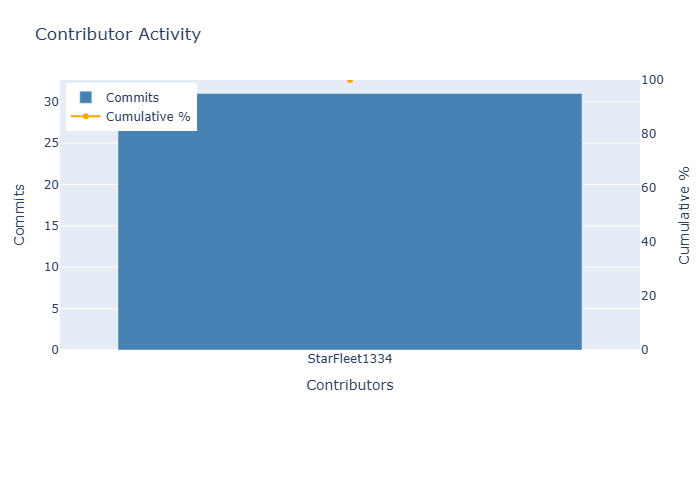
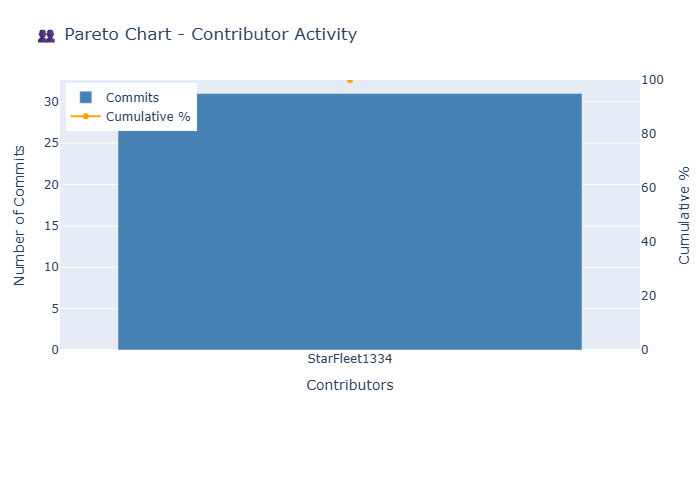
Remove large videos; will track via LFS/external storage

Changed region(s): [[0.03, 0.06, 0.51, 0.09], [0.0, 0.3, 0.03, 0.57]]

diff --git a/client.py b/client.py
@@ -54,8 +54,7 @@ class GitHubRepoClientFacade:
             contributor_pareto, label="Contributor",
             title="📌 Pareto Analysis for Contributors (80%)"
         )
-
-        # Visualization (Interactive Pareto Chart)
+        # Visualization (For Generating Pareto Chart)
         ParetoChartVisualizer.save_pareto_chart_image(
             data=filename_counts,
             title="📊 Pareto Chart - File Changes",
@@ -70,6 +69,20 @@ class GitHubRepoClientFacade:
             xlabel="Contributors",
             ylabel="Number of Commits",
             filename="contributor_activity_pareto.png"
+        )
+
+        ParetoChartVisualizer.show_interactive_pareto_chart(
+            data=filename_counts,
+            title="📊 Pareto Chart - File Changes",
+            xlabel="Files",
+            ylabel="Number of Commits"
+        )
+
+        ParetoChartVisualizer.show_interactive_pareto_chart(
+            data=author_counts,
+            title="👥 Pareto Chart - Contributor Activity",
+            xlabel="Contributors",
+            ylabel="Number of Commits"
         )
 
 def main():

diff --git a/reports/pareto_summary.md b/reports/pareto_summary.md
@@ -1,0 +1,44 @@
+# 📌 Pareto Analysis Report
+
+## Files
+
+- **back-service/src/main/java/com/example/backservice/BackServiceApplication.java**: 20 commits (8.33%)
+- **front-service/index.html**: 14 commits (14.17%)
+- **front-service/js/script.js**: 13 commits (19.58%)
+- **front-service/styles.css**: 13 commits (25.00%)
+- **front-service/js/quizManager.js**: 10 commits (29.17%)
+- **back-service/src/main/java/com/example/backservice/service/DataService.java**: 9 commits (32.92%)
+- **back-service/src/main/java/com/example/backservice/contoller/DataController.java**: 7 commits (35.83%)
+- **front-service/manifest.json**: 6 commits (38.33%)
+- **README.md**: 5 commits (40.42%)
+- **life-service/app/config/settings.py**: 5 commits (42.50%)
+- **life-service/app/services/text_service.py**: 5 commits (44.58%)
+- **front-service/js/categoryManager.js**: 5 commits (46.67%)
+- **front-service/js/uiManager.js**: 5 commits (48.75%)
+- **back-service/build.gradle**: 5 commits (50.83%)
+- **front-service/js/settings.js**: 5 commits (52.92%)
+- **life-service/api.py**: 5 commits (55.00%)
+- **front-service/script.js**: 5 commits (57.08%)
+- **back-service/src/main/java/com/example/backservice/contoller/CategoryController.java**: 4 commits (58.75%)
+- **back-service/src/main/java/com/example/backservice/entity/request/ContentRequest.java**: 4 commits (60.42%)
+- **front-service/js/apiService.js**: 4 commits (62.08%)
+- **life-service/app/api/routes/questions.py**: 4 commits (63.75%)
+- **back-service/src/main/java/com/example/backservice/contoller/QuestionController.java**: 4 commits (65.42%)
+- **back-service/src/main/resources/application.properties**: 4 commits (67.08%)
+- **.gitignore**: 3 commits (68.33%)
+- **life-service/app/models/request_models.py**: 3 commits (69.58%)
+- **back-service/src/main/java/com/example/backservice/skeleton/CategoryControllerInterface.java**: 3 commits (70.83%)
+- **back-service/src/main/java/com/example/backservice/skeleton/DataControllerInterface.java**: 3 commits (72.08%)
+- **back-service/src/main/java/com/example/backservice/skeleton/QuestionControllerInterface.java**: 3 commits (73.33%)
+- **back-service/.gitignore**: 3 commits (74.58%)
+- **life-service/app/api/routes/categories.py**: 2 commits (75.42%)
+- **front-service/js/translations.js**: 2 commits (76.25%)
+- **front-service/js/settingsViewController.js**: 2 commits (77.08%)
+- **front-service/js/timer.js**: 2 commits (77.92%)
+- **back-service/src/main/java/com/example/backservice/entity/respose/QuestionResponse.java**: 2 commits (78.75%)
+- **life-service/app/main.py**: 2 commits (79.58%)
+- **life-service/app/services/question_service.py**: 2 commits (80.42%)
+
+## Contributors
+
+- **StarFleet1334**: 31 commits (100.00%)

diff --git a/README.md b/README.md
@@ -45,19 +45,6 @@ Understanding these critical files and key contributors helps prioritize resourc
 
 ### 📥 Installation
 
-Clone the repository:
-
-```bash
-git clone https://github.com/yourusername/github-pareto-optimizer.git
-cd github-pareto-optimizer
-```
-
-Install dependencies:
-
-```bash
-pip install -r requirements.txt.txt
-```
-
 ### ⚙ Configuration
 
 Create or update the configuration file (`config.py`):
@@ -71,15 +58,61 @@ GITHUB_TOKEN = 'your-personal-access-token'
 ```
 *  Additionally in "paretoChartVisaulizer.py" on line 7 you can set top_n as you prefer to visualize more in graph 
 
-### 🚀 Running the Optimizer
+## 🚀 Quick Start
 
-Execute the main script:
+### 1 · Clone the repository
+
+```bash
+git clone https://github.com/yourusername/RepositoryAnalyzer.git
+cd RepositoryAnalyzer.git
+```
+
+### 2 · Install dependencies
+
+```bash
+# (Optional) create an isolated environment
+python -m venv .venv
+source .venv/bin/activate      # Windows: .venv\Scripts\activate
+
+# Install Python packages
+pip install -r requirements.txt
+```
+
+### 3 · Run the back‑end client (You can run with this—Here you get an interactive plotted graph)
 
 ```bash
 python client.py
-
-you can also run - uvicorn app.main:app --reload to see UI
 ```
+
+[![Watch the demo](assets/terminal-video-thumb.jpg)](assets/terminal-video.mp4)
+
+
+The CLI collects Git statistics, performs a Pareto analysis, and stores the results
+
+### 4 · Launch the web UI (Or you can run with this—Here you get .png's of a plotted graph)
+
+```bash
+uvicorn app.main:app --reload
+```
+
+Open [http://127.0.0.1:8000/docs](http://127.0.0.1:8000/docs) for an interactive Swagger UI or visit [http://127.0.0.1:8000](http://127.0.0.1:8000) to browse the dashboard.
+
+[![Watch the demo](assets/ui-video-thumb.jpg)](assets/ui-video.mp4)
+
+
+---
+
+## 🛠 GitHub Actions Workflow
+
+Automate the analysis directly in the cloud:
+
+1. Navigate to **GitHub → Actions → Repo Optimizer Pareto Analysis**.
+2. Click **Run workflow**.
+3. Provide the required inputs (e.g., *repository name*, *GitHub token*, *your github username*).
+4. Trigger the run – a detailed report appears in the run artefacts once the job finishes.
+
+---
+  
 
 ## 📊 Example Output
 
@@ -105,6 +138,15 @@ janesmith          |     3 |                   26 |                             
 
 ```
 .
+├── app
+│    ├── static
+│    │    └── favicon.ico
+│    │    └── style.css
+│    ├── templates
+│    │    └── index.html
+│    ├── main.py
+│    ├── routes.py
+│    └── services.py     
 ├── config
 │   └── config.py
 ├── file_filter_strategy
